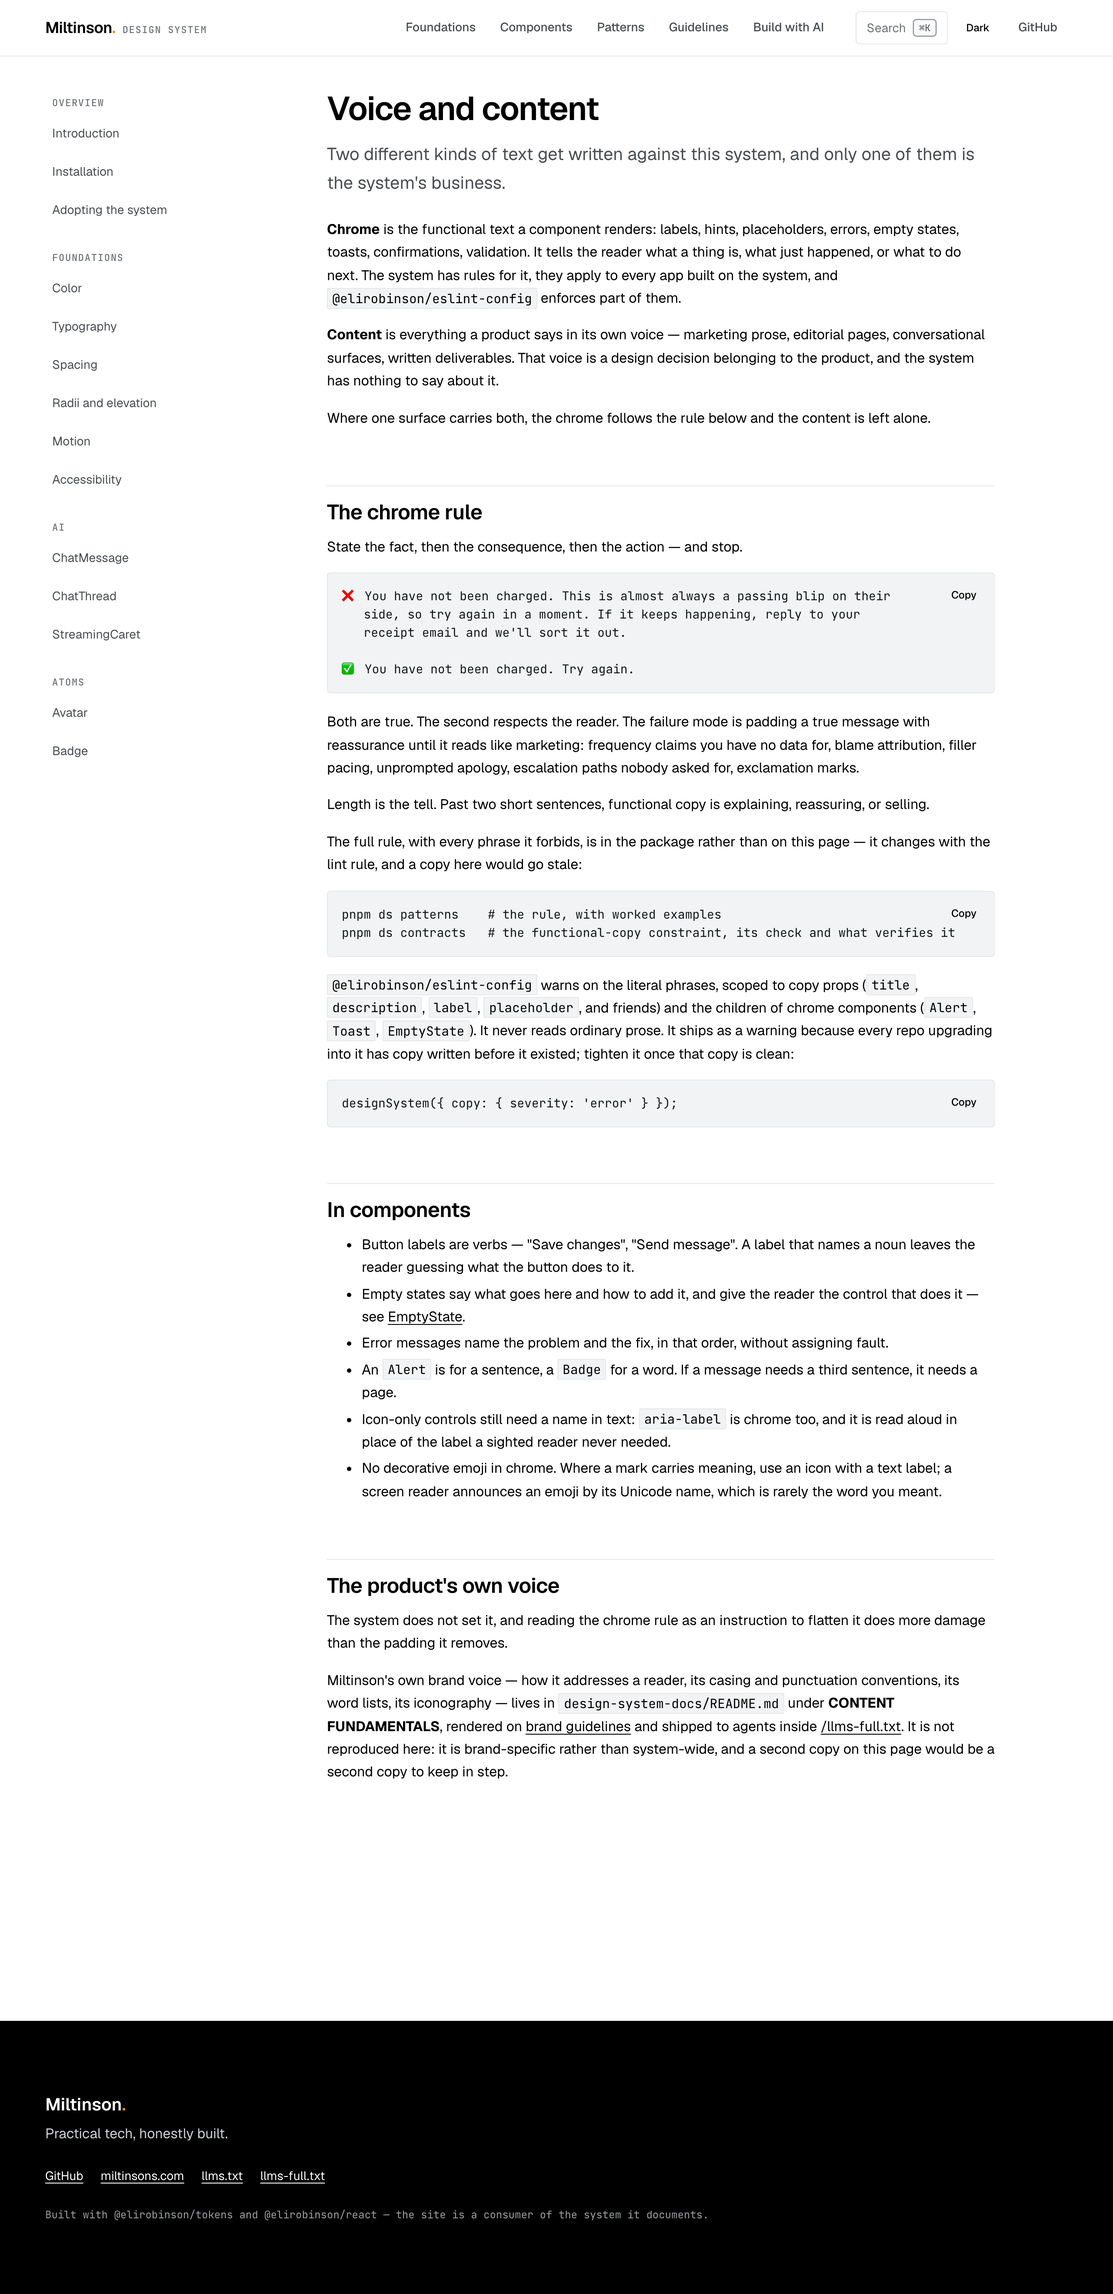
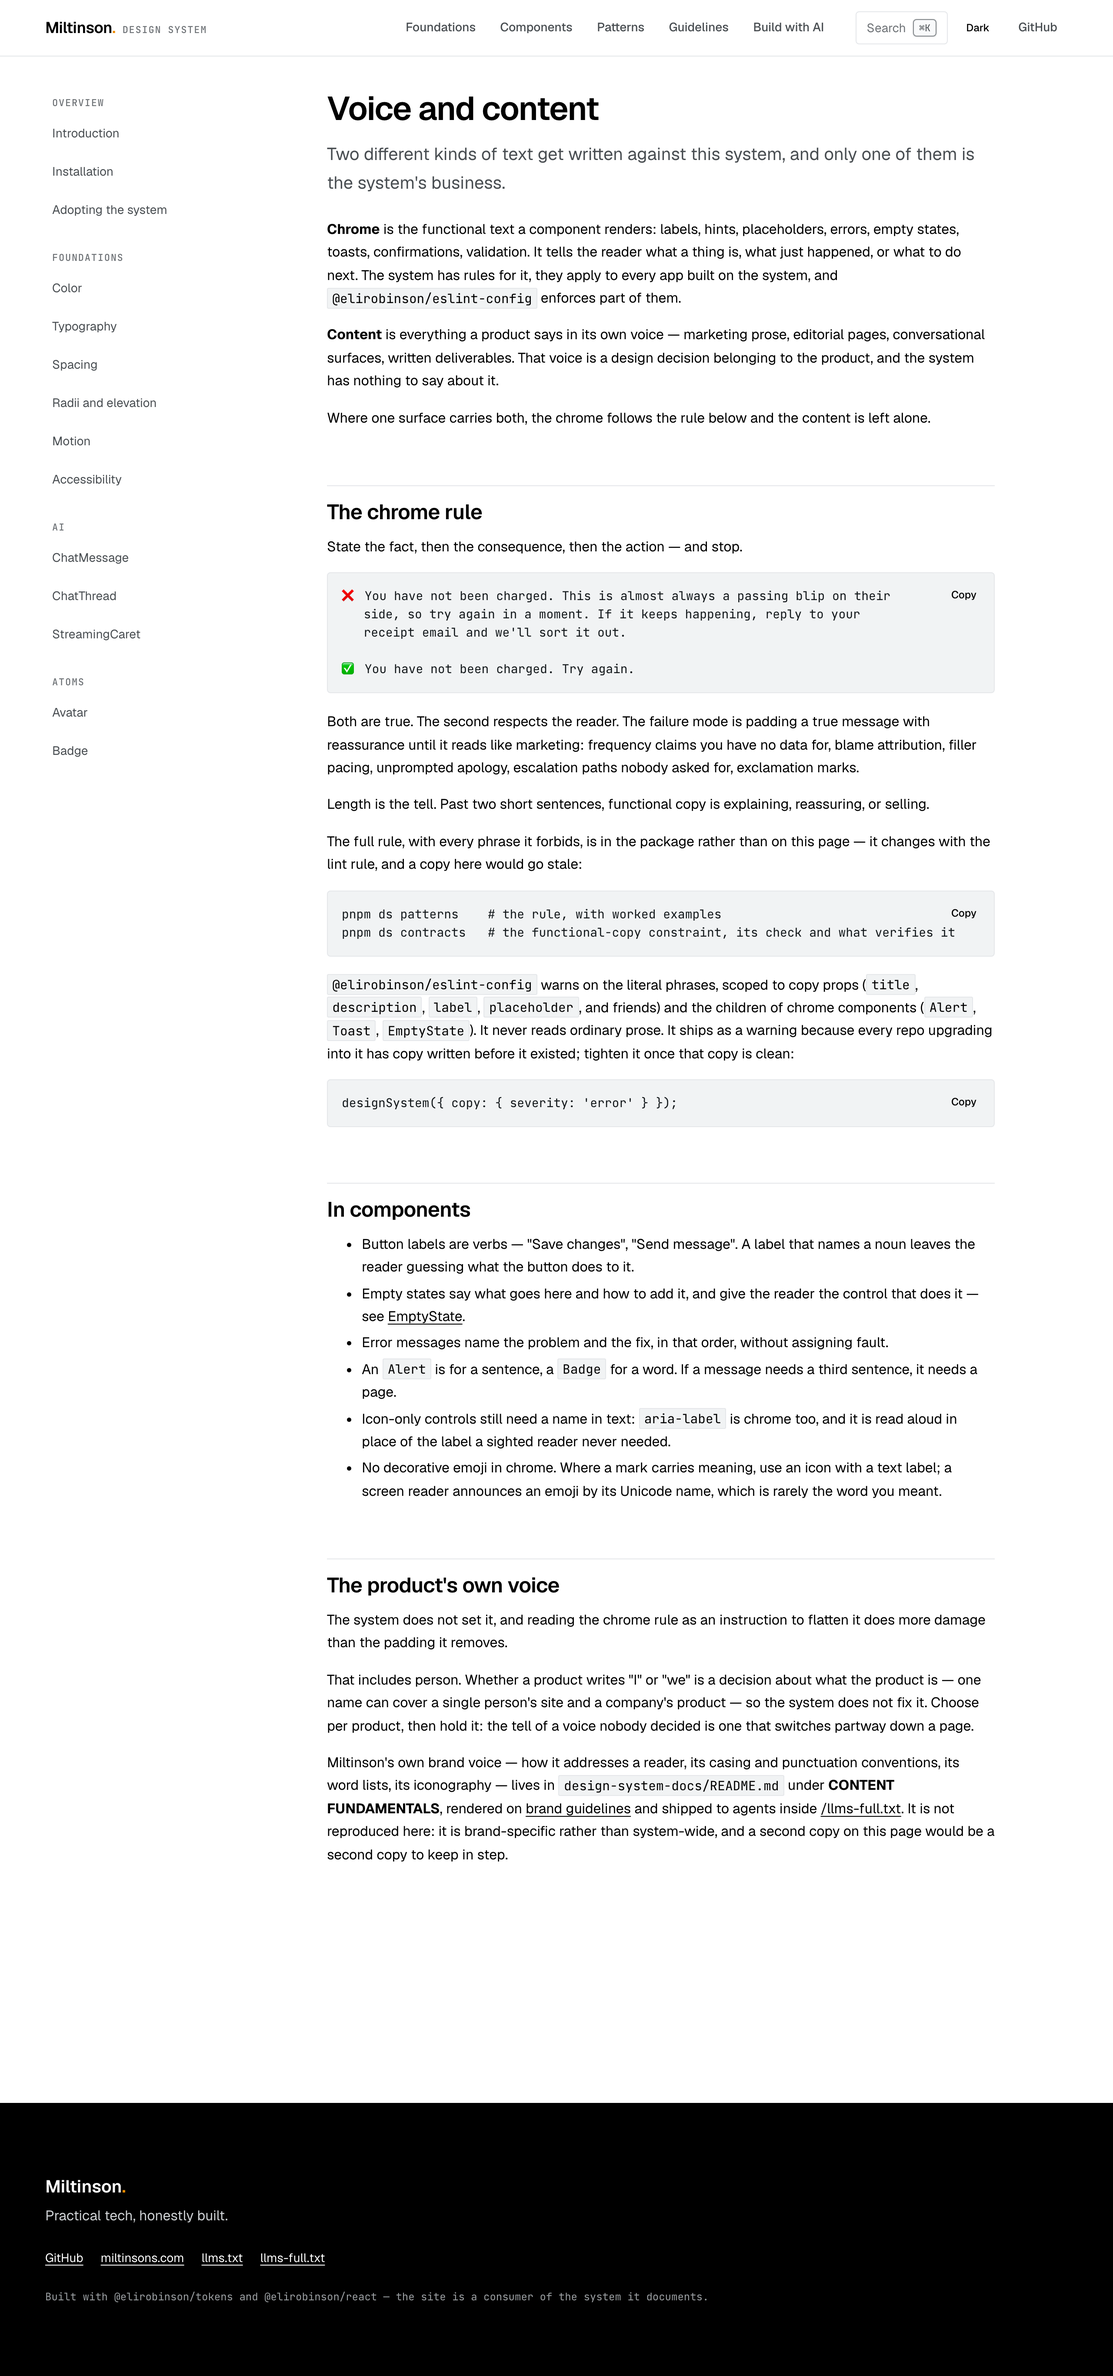
docs(pr-assets): record the Q1/Q3/Q4 answers and reshoot the affected surfaces
Refs #128, #130, #142

diff --git a/docs/pr-assets/voice-audit/AUDIT.md b/docs/pr-assets/voice-audit/AUDIT.md
@@ -2,8 +2,12 @@
 
 Working document for [#130](https://github.com/EliRobinson/design-system/issues/130) (the voice
 page is out of date) and [#128](https://github.com/EliRobinson/design-system/issues/128) (the site
-reads as AI marketing). Annotate it in place — the open questions at the end are the ones that
-have to be answered before the rest of #128 can be finished.
+reads as AI marketing). Annotate it in place.
+
+**Status:** the maintainer has answered Q1, Q3 and Q4 (§8). Q2 stays open and is being
+investigated separately. The word-list divergence in §4a is now its own ticket,
+[#142](https://github.com/EliRobinson/design-system/issues/142), and is deliberately **not**
+fixed here — consolidating the three copies needs the Q2 boundary answer first.
 
 Scope of the sweep: every MDX page under `apps/docs/src/app/(docs)/`, the page components under
 `apps/docs/src/app/`, hard-coded copy in `apps/docs/src/components/`, `apps/docs/src/lib/editorial.ts`,
@@ -73,14 +77,29 @@ _user_ speaking inside a demo, which is correct. Left alone.
 
 `installation/page.mdx:123` contains the literal CLI argument `my-app`. Not first person.
 
-### 1d. The upstream copy — flagged, not touched
+### 1d. The upstream copy — now changed, following the Q1 answer
 
-`design-system-docs/README.md:67` says **"Eli speaks as himself."** and that file is the brand
-source of truth: `@elirobinson/ai-patterns` exports it as `./brand-readme`, and `llmsFull()`
-extracts its `## CONTENT FUNDAMENTALS` section into `/llms-full.txt`. So the first-person rule
-is not only on the docs page — it is **published to every consuming agent**. `ai-corpus.test.ts:109`
-asserts the string `Never the royal "we."` appears in the corpus, so changing it fails CI here
-too. See §5.
+`design-system-docs/README.md:67` said **"Eli speaks as himself. … Never the royal 'we.'"** and
+that file is the brand source of truth: `@elirobinson/ai-patterns` exports it as `./brand-readme`,
+`llmsFull()` extracts its `## CONTENT FUNDAMENTALS` section into `/llms-full.txt`, and the
+`design-system-mcp` server serves it as `miltinson://brand/voice` and through
+`get_brand_guidance`. The rule was therefore published to every consuming agent, not just printed
+on a docs page.
+
+Q1 is answered (§8), so this PR deletes the rule at its source. Five places carried it:
+
+| file:line                                                        | was                                             | now                                                                  |
+| ---------------------------------------------------------------- | ----------------------------------------------- | -------------------------------------------------------------------- |
+| `design-system-docs/README.md:67`                                | "Eli speaks as himself … Never the royal 'we.'" | "The voice is Miltinson Technologies" — person is the product's call |
+| `design-system-docs/README.md:93`                                | avoid-list ended `"we" (when Eli means "I")`    | clause removed                                                       |
+| `design-system-docs/SKILL.md:25`                                 | `Eli speaks as "I" — never "we"`                | person is the product's call, held within a surface                  |
+| `design-system-docs/guidelines/brand-voice.html` — card subtitle | "First person, sentence case…"                  | "Miltinson Technologies, sentence case…"                             |
+| `design-system-docs/guidelines/brand-voice.html` — avoid-list    | ended `"we" when Eli means "I"`                 | clause removed                                                       |
+
+Six assertions across three packages pinned the deleted string and moved with it — see §8, Q1.
+
+The `brand-voice.html` edits delete a rule that no longer exists. They are **not** the #142 fix:
+the three word lists still diverge, and consolidating them is still blocked on Q2.
 
 ## 2. AI-marketing inventory
 
@@ -238,6 +257,11 @@ marketing layer does not.
 Three violations found, all on the voice page or adjacent to it.
 
 **4a. The brand voice word lists exist in three hand-kept copies, and all three disagree.**
+Filed as [#142](https://github.com/EliRobinson/design-system/issues/142) and **not fixed in this
+PR** — consolidating them needs the Q2 boundary answer first, and Q4 suggests they may not even
+be three copies of one thing (§8, Q4). The counts below are as measured before this PR; the only
+edits made since are the deletions of the retired royal-we clause, which do not consolidate
+anything.
 
 | copy                                                           | "use" list | "avoid" list |
 | -------------------------------------------------------------- | ---------- | ------------ |
@@ -276,15 +300,14 @@ The fix for 4a and 4b is the same shape as the rest of this repo: the page shoul
 voice _is_ in the register above, and point at the command for anything enumerable — not carry
 a second copy of the list.
 
-## 5. `packages/` prose — flagged, not changed
+## 5. `packages/` prose
 
-Changing anything here needs a changeset and ships to consumers, so it is deliberately excluded
-from this PR.
+Everything here ships to consumers, so a change needs a changeset. Originally all of it was
+excluded from this PR; the Q1 answer pulled the first item in.
 
-- `design-system-docs/README.md:61–110` — the CONTENT FUNDAMENTALS block. **This is the real
-  #130 fix.** Until it changes, "Eli speaks as himself" is what every agent is told. Note
-  `apps/docs/src/lib/ai-corpus.test.ts:109` asserts on `Never the royal "we."`, so the test moves
-  with it.
+- `design-system-docs/README.md:61–110` — the CONTENT FUNDAMENTALS block. **Changed in this PR**
+  (§1d): this was the real #130 fix, and until it changed, "Eli speaks as himself" was what every
+  agent was told. Changeset: `.changeset/miltinson-technologies-voice.md`.
 - `packages/ai-patterns/src/contracts.json:3` — `"voice": "practical, honest, warm"`. Consistent
   with the README's tone ranking; survives a move away from "I" unchanged. Probably fine as is.
 - `packages/ai-patterns/src/patterns.md` — swept: **0 first-person, 0 intensifiers.** §6 "UI Copy
@@ -309,22 +332,34 @@ from this PR.
   `apps/docs/src/app/(docs)/components/button/page.mdx:26` — the two first-person lines that read
   the same under any answer to Q1.
 
+**Changed after the Q1 answer (§8), in a separate commit:**
+
+- `design-system-docs/README.md:67, :93`, `design-system-docs/SKILL.md:25` and
+  `design-system-docs/guidelines/brand-voice.html` — the royal-we rule, deleted at its source.
+- The six assertions in `apps/docs/src/lib/ai-corpus.test.ts`,
+  `packages/ai-patterns/src/artifacts/llms.test.mjs` and
+  `packages/design-system-mcp/src/server.test.mjs` that pinned the deleted string.
+- `guidelines/voice/page.mdx` — one paragraph saying the system does not fix person.
+- `.changeset/miltinson-technologies-voice.md`.
+
 **Deliberately left, listed as remaining work for #128:**
 
 - `foundations/radii-elevation/page.mdx:15` — "a pill button reads as a different brand". Counted
   as tic 2, but it is the only stated reason the pill radius is banned for CTAs, and deleting it
   loses the rationale. Needs a replacement reason, not a cut.
 - `patterns/{hero,forms,header}/page.mdx` and every `components/demos/*` file — the 15 lines in
-  §1b. This is a sample-content decision, not a copy edit: replacing the persona means choosing
-  a new one, and it touches ~20 files. Worth its own issue.
+  §1b. Q4 is answered (§8): these are not a defect, they are website copy filed in the system.
+  A separate agent is auditing that boundary repo-wide, so this PR stays off these files.
 - `patterns/footer/page.mdx:5–6` and `adoption/page.mdx:7` — one tic each.
 - The 50 component pages. Swept and clean: their antitheses are load-bearing and their leads name
   mechanisms. No work found.
-- `design-system-docs/README.md` — see §5.
+- The three divergent word lists — [#142](https://github.com/EliRobinson/design-system/issues/142), blocked on Q2.
 
-## 7. Open questions for the maintainer
+## 7. The open questions, as asked
 
-**Q1. What replaces "I"?** Three candidates, and the choice decides §1a, §1b, and 4a:
+Kept as the record of what was put to the maintainer. Three are answered in §8; Q2 is still open.
+
+**Q1. What replaces "I"?** — **ANSWERED, see §8.** Three candidates, and the choice decides §1a, §1b, and 4a:
 
 - **(a) The system as subject.** "The system ships two stylesheets." Matches the house voice in
   `docs/agents/*` and `patterns.md` exactly, and is the register a spec is normally written in.
@@ -337,7 +372,8 @@ from this PR.
   is genuinely becoming an org rather than staying a person's work; it would also mean the
   README's "Never the royal 'we'" rule is the thing that has to change.
 
-**Q2. Whose voice is this page describing — the system's, or the consumer's product's?**
+**Q2. Whose voice is this page describing — the system's, or the consumer's product's?** —
+**STILL OPEN.** Being investigated separately; nothing below is settled.
 The page currently conflates them, and that conflation is arguably the root cause of #130. Lines
 5–39 describe _Miltinson's own marketing voice_ (pricing conventions, the wordmark's period,
 taglines). Lines 47–53 describe _rules a consumer's product must follow_ (button labels are
@@ -361,10 +397,126 @@ covers chrome only, and the brand-voice half is a link to `/brand/guidelines` an
 rather than a copy of them. That fixes 4a without settling what the brand voice _is_ — whatever
 you decide about "I", the page stays correct, because it no longer states it.
 
-**Q3. Does the tone ranking survive?** "Practical / Honest / Warm / Quietly confident", weighted
+**Q3. Does the tone ranking survive?** — **ANSWERED, see §8.** "Practical / Honest / Warm / Quietly confident", weighted
 in that order, appears on the page and in the README. Nothing reads the ranking and no decision
 has ever turned on it. Keep as brand-level guidance, or drop it as tic-6 padding?
 
-**Q4. Is the sample-copy persona in scope?** §1b is 15 lines across ~20 demo files. Replacing
+**Q4. Is the sample-copy persona in scope?** — **ANSWERED, see §8.** §1b is 15 lines across ~20 demo files. Replacing
 "Eli Robinson, coach-resources" with a generic persona is a bigger, more visible diff than
 everything else here combined. Separate issue, or fold into #128?
+
+## 8. Answers, and what they change
+
+### Q1 — answered. The voice is Miltinson Technologies, and the royal-we rule is deleted
+
+> "Get rid of the royal we rule, change I to mean Miltinson Technologies which could just be me
+> (Eli) or the company which is the royal we. It's going to depend on the context of the product."
+
+So the answer is none of the three candidates in §7 as written. It is closest to **(c)**, but with
+the part that made (c) look expensive removed: the brand is Miltinson Technologies, and whether a
+given product writes "I" or "we" is that product's decision, taken from what the product actually
+is. One hard rule is not replaced by the opposite hard rule — "Eli speaks as himself" stops being
+_the_ rule and becomes one legitimate instantiation of it.
+
+The guidance now reads, at `design-system-docs/README.md:67`:
+
+> **The voice is Miltinson Technologies.** Whether that reads as one person — _"I'm Eli Robinson —
+> I build software, teach AI…"_ — or as a company depends on what the product is, and both are the
+> brand: the same name covers a personal site and a company product. Pick the person from the
+> product, not from a rule, and hold it. The failure is a surface that switches partway through,
+> not a surface that chose "we".
+
+The docs site says the system-level half of that at `/guidelines/voice`: person is the product's
+call, the system does not fix it, hold it within a surface.
+
+**The six assertions.** `Never the royal "we."` was pinned by six tests across three packages,
+because the string travelled `design-system-docs/README.md` → `brandVoice()` → `/llms-full.txt`
+→ the packed skill artifact → the MCP server. All six now pin the replacement:
+
+| file:line                                              | was                                    | now                                                   |
+| ------------------------------------------------------ | -------------------------------------- | ----------------------------------------------------- |
+| `apps/docs/src/lib/ai-corpus.test.ts:109`              | `toContain('Never the royal "we."')`   | `toContain('The voice is Miltinson Technologies.')`   |
+| `packages/ai-patterns/src/artifacts/llms.test.mjs:281` | fixture line `- Never the royal "we."` | fixture line `- The voice is Miltinson Technologies.` |
+| `packages/ai-patterns/src/artifacts/llms.test.mjs:315` | `toContain('Never the royal "we."')`   | `toContain('The voice is Miltinson Technologies.')`   |
+| `packages/ai-patterns/src/artifacts/llms.test.mjs:330` | `toContain('Never the royal')`         | `toContain('Miltinson Technologies')`                 |
+| `packages/design-system-mcp/src/server.test.mjs:281`   | `toContain('Never the royal')`         | `toContain('Miltinson Technologies')`                 |
+| `packages/design-system-mcp/src/server.test.mjs:347`   | `toContain('Never the royal')`         | `toContain('Miltinson Technologies')`                 |
+
+Three of the six read the real README; the `llms.test.mjs` trio run against a synthetic fixture,
+and the fixture was updated too rather than left enshrining a rule that no longer exists.
+
+Because `packages/` is now touched, this needs a changeset:
+`.changeset/miltinson-technologies-voice.md`.
+
+### Q3 — answered. The tone ranking stays, and should do more work
+
+> "It should and we should use it, find ways to utilize it more."
+
+The audit's finding was that nothing reads the ranking and no decision has ever turned on it.
+That is the gap. Four proposals, cheapest first. **None is built in this PR.**
+
+**1. Make it the documented tie-breaker.** The ranking's only real use is ordinal: when two
+phrasings both pass the chrome rule, the one higher on the list wins. Today a writer has no
+instruction to apply it that way. One paragraph on `/guidelines/voice` turns it from a description
+into a procedure:
+
+> Practical beats honest beats warm beats quietly confident. When two phrasings both state the
+> fact, keep the one that saves the reader more time. When one is warmer and the other is more
+> candid about a limitation, keep the candid one.
+
+**2. Make it the justification format for copy review.** Copy changes currently get reviewed on
+vibes. A one-line convention — name the rung the change is serving — makes a copy diff arguable:
+_"cut 'we'll sort it out': honest > warm, we can't promise it."_ Costs nothing, and it is the same
+shape as `verifiedBy` in `contracts.json`: say what the claim rests on.
+
+**3. Retro-fit it to the rewrites in this PR, as worked examples.** Every cut in §6 was made on one
+of the four rungs and none of them says so. Two examples, added to the page:
+
+- "No fluff, no dark patterns, accessible by default" → deleted. **Honest**: nothing in the system
+  detects a dark pattern.
+- "so an AI … imports the right thing on the first try" → "every import path it publishes is
+  asserted against real source files at test time". **Practical over quietly confident**: the
+  second sentence is checkable and the first is a mood.
+
+That converts the ranking from an assertion into a set of decisions a reader can see it producing —
+which is the §3 standard applied to the ranking itself.
+
+**4. Make one rung checkable.** Three of the four are judgement, and `contracts.json` already
+labels `systemPromptStyle.voice` as `"not automated — reviewer judgement"`, honestly. But
+**practical** has a proxy the repo already computes: length. `patterns.md` fixes the chrome
+threshold at two short sentences, and `copy-patterns.mjs` already walks exactly the right nodes —
+copy props and chrome-component children. A `copy/length` rule reusing that traversal would make
+one rung of the ranking enforceable without inventing a new lint surface, and would give the other
+three a precedent. Sizing this is a separate issue; noting the seam here.
+
+### Q4 — answered, and it reframes part of this audit
+
+> "This makes sense for the Miltinson Technologies website (company/self page) however not in the
+> design system as a whole. … The website is a consumer of the design system now, not the sole
+> ruleset."
+
+**Which of this audit's findings change meaning under that.**
+
+- **§1b — the 15 sample-copy lines. Downgraded from defect to misfiling.** The audit counted them
+  as brand-voice drift. Under the answer they are correct copy sitting in the wrong repo: valid
+  for the Miltinson site, out of place in a system that other products consume. The count stands;
+  the verdict changes from "rewrite these" to "these belong to the website". Concretely, `Hire me`
+  and `I'm Eli Robinson — I build software, teach AI…` are not wrong sentences, they are
+  site-specific sentences shipped as if they were system examples.
+- **§1a — the 6 docs-voice lines. Unchanged, still defects.** These are the system speaking about
+  itself ("I use pnpm" in an install guide), not sample content. They were fixed here.
+- **§1 headline — the framing shifts.** "21 lines of the brand speaking as 'I'" splits cleanly
+  into 6 defects and 15 misfilings, and only the first number is a #130 count.
+- **§4a and #142 — Q4 sharpens the question but does not answer it.** If the website is one
+  consumer among several, the three word lists are not three copies of one thing; they may be a
+  system-level list and a Miltinson-level list that were never separated. That is Q2's territory,
+  which is why #142 stays blocked.
+
+A separate agent is auditing the website-vs-system boundary repo-wide. Nothing in this PR touches
+`patterns/{hero,forms,header}` or `components/demos/*`, to stay out of its way.
+
+### Q2 — still open
+
+Left exactly as framed in §7. The rewrite's approach (the page covers chrome and links to the
+brand source rather than copying it) was chosen because it stays correct under any answer, not
+because it presumes one.
